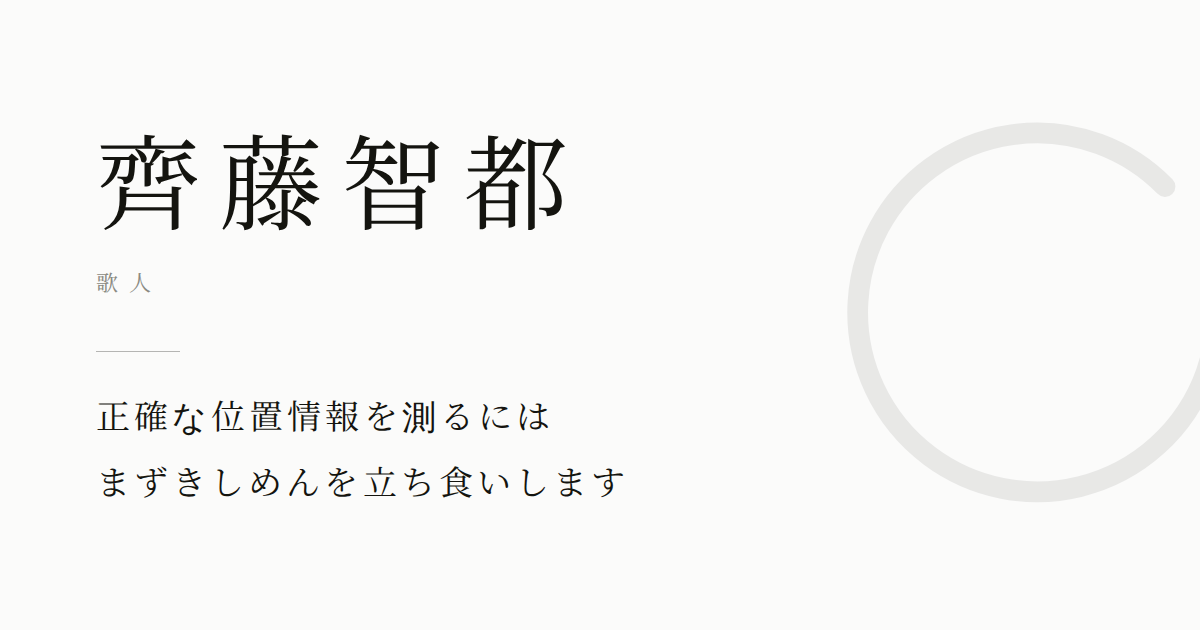
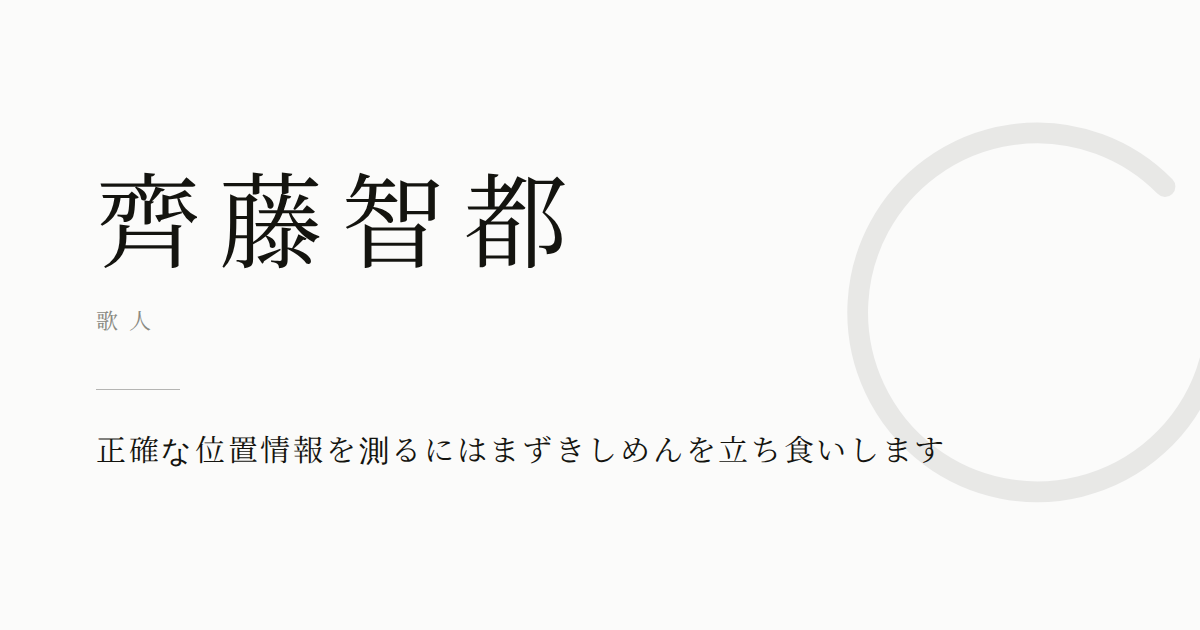
Use the author's own profile text and a one-line poem on the card
Replace the drafted profile paragraphs with the author's wording, narrow
the base to Kanagawa, and re-render the social card with the tanka set
as a single unbroken line.

Changed region(s): [[0.0617, 0.2111, 0.4933, 0.5429], [0.0617, 0.6333, 0.8017, 0.7841]]

diff --git a/apps/frontend/public/index.html b/apps/frontend/public/index.html
@@ -490,9 +490,9 @@
     <section id="profile">
       <p class="kicker">Profile</p>
       <h2>プロフィール</h2>
-      <p class="lead">2000年生まれ。神奈川県と東京都を行き来しながら暮らしています。2025年12月から短歌をつくりはじめ、2026年10月より「かばん」に所属します。</p>
-      <p class="lead">※この段落に、短歌をはじめたきっかけと、どんな歌をつくりたいかを二〜三文で書いてください。（例：どこで短歌に出会ったか／日常のどんな瞬間を歌にすることが多いか／これから挑戦したいこと）</p>
-      <p class="lead">寄稿・出演のご依頼、感想やご連絡は、XのDMかメールへお願いします。</p>
+      <p class="lead">2000年生まれ。神奈川県在住。2025年12月から作歌をはじめ、2026年10月より「かばん」に所属します。</p>
+      <p class="lead">短歌をはじめたきっかけは、木下龍也『天才による凡人のための短歌教室』です。たくさんの「おもしろい」歌を作っていきたいです。</p>
+      <p class="lead">ご連絡は、XのDMかメールへお願いします。</p>
       <dl class="facts">
         <div>
           <dt>名前</dt>
@@ -504,7 +504,7 @@
         </div>
         <div>
           <dt>拠点</dt>
-          <dd>神奈川県・東京都</dd>
+          <dd>神奈川県</dd>
         </div>
         <div>
           <dt>作歌開始</dt>
